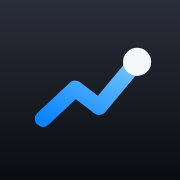
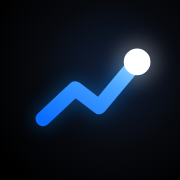
v70 und iPhone-App 0.6: neues App-Symbol (fast schwarzer Grund, blauer Schein)
Claude-Session: https://claude.ai/code/session_01AzcBeeds4X9D1bSHJ7i8yF

diff --git a/tests/symbol.js b/tests/symbol.js
@@ -1,26 +1,31 @@
-// App-Symbol erzeugen: ein Zeichen auf leichtem Verlauf. Die steigende Linie steht für Fortschritt, der Punkt für „Track.“.
-// Aufruf: node tests/symbol.js [ordner]   (ohne Ordner werden icon-180/192/512.png im Projekt überschrieben)
+// App-Symbol erzeugen: die steigende Linie (Fortschritt) mit hellem Punkt („Track.“) auf fast schwarzem Grund, dahinter ein blauer Schein
+// (seit v70, vom Nutzer nach Vorschaubild gewählt: „schwarz mit schein“; vorher ein grauer Verlauf).
+// Aufruf: node tests/symbol.js [ordner]   (ohne Ordner werden icon-180/192/512.png im Projekt und das Symbol der iPhone-App überschrieben)
 // Das Zeichen bleibt in der Mitte (80 % der Fläche), weil iPhone und Android die Ecken abschneiden.
 const { chromium } = require('playwright');
 const path = require('path');
 
 const SVG = `<svg xmlns="http://www.w3.org/2000/svg" viewBox="0 0 512 512">
   <defs>
-    <linearGradient id="g" x1="0" y1="0" x2="0" y2="1"><stop offset="0" stop-color="#2A2E3B"/><stop offset="1" stop-color="#0B0C10"/></linearGradient>
-    <linearGradient id="l" x1="0" y1="1" x2="1" y2="0"><stop offset="0" stop-color="#0A84FF"/><stop offset="1" stop-color="#6CC0FF"/></linearGradient>
+    <radialGradient id="g" cx="0.62" cy="0.42" r="0.75"><stop offset="0" stop-color="#11203A"/><stop offset="0.55" stop-color="#07090E"/><stop offset="1" stop-color="#000000"/></radialGradient>
+    <linearGradient id="l" x1="0" y1="1" x2="1" y2="0"><stop offset="0" stop-color="#0A6CFF"/><stop offset="1" stop-color="#5CB8FF"/></linearGradient>
+    <filter id="f" x="-50%" y="-50%" width="200%" height="200%"><feGaussianBlur stdDeviation="26"/></filter>
   </defs>
   <rect width="512" height="512" fill="url(#g)"/>
-  <path d="M122 338 L214 252 L282 304 L372 196" fill="none" stroke="url(#l)" stroke-width="46" stroke-linecap="round" stroke-linejoin="round"/>
-  <circle cx="390" cy="176" r="40" fill="#F5F6F8"/>
+  <path d="M122 338 L214 252 L282 304 L372 196" fill="none" stroke="#0A84FF" stroke-width="46" stroke-linecap="round" stroke-linejoin="round" opacity="0.45" filter="url(#f)"/>
+  <path d="M122 338 L214 252 L282 304 L372 196" fill="none" stroke="url(#l)" stroke-width="42" stroke-linecap="round" stroke-linejoin="round"/>
+  <circle cx="390" cy="176" r="60" fill="#FFFFFF" opacity="0.28" filter="url(#f)"/>
+  <circle cx="390" cy="176" r="38" fill="#FFFFFF"/>
 </svg>`;
 
 (async () => {
   const ziel = process.argv[2] || path.resolve(__dirname, '..');
   const browser = await chromium.launch();
-  for (const n of [180, 192, 512]) {
+  // 1024 ist das Symbol der iPhone-App (ohne runde Ecken, die schneidet iOS selbst)
+  for (const n of [180, 192, 512, 1024]) {
     const page = await browser.newPage({ viewport: { width: n, height: n } });
     await page.setContent('<style>html,body{margin:0}svg{display:block;width:100vw;height:100vh}</style>' + SVG);
-    await page.screenshot({ path: path.join(ziel, 'icon-' + n + '.png') });
+    await page.screenshot({ path: n === 1024 ? (process.argv[2] ? path.join(ziel, 'icon-1024.png') : path.resolve(__dirname, '../ios/App/Assets.xcassets/AppIcon.appiconset/icon-1024.png')) : path.join(ziel, 'icon-' + n + '.png') });
     await page.close();
   }
   await browser.close();

diff --git a/index.html b/index.html
@@ -776,7 +776,7 @@ dialog::before{content:"";display:block;flex:none;width:36px;height:5px;border-r
 
   <div id="v-training" class="view" hidden></div>
 
-  <footer class="foot" id="foot">Gespeichert auf diesem Gerät.<span class="ver">v69</span><span class="ver" id="h-line" hidden></span></footer>
+  <footer class="foot" id="foot">Gespeichert auf diesem Gerät.<span class="ver">v70</span><span class="ver" id="h-line" hidden></span></footer>
 </div>
 </div>
 

diff --git a/sw.js b/sw.js
@@ -1,4 +1,4 @@
-const C = 'takt-v69';
+const C = 'takt-v70';
 self.addEventListener('install', e => {
   e.waitUntil(caches.open(C).then(c => c.addAll(['./', 'index.html', 'manifest.webmanifest', 'icon-180.png', 'icon-192.png', 'icon-512.png'])).then(() => self.skipWaiting()));
 });

diff --git a/PROGRESS.md b/PROGRESS.md
@@ -1,8 +1,8 @@
 # Track. – Fortschritt
 
 ## Aktueller Stand
-- App-Inhalt (`index.html`): live ist v69 unter https://tnyjmp8sz8-jpg.github.io/Meine-App/ (Zweig `main`, veröffentlicht am 18.11.2026; `node tests/live.js` geht in dieser Umgebung nicht, geprüft wird der Pages-Lauf bei GitHub). `node tests/alle.js` (18.11.): alle 716 Prüfungen in 14 Reihen stimmen (Ablauf 16, Aufbau 68, Klappzeilen 154, Gesten 21, Eingaben 17, Löschen 22, Aufgaben und Notizen 80, Finanzen 68, Gym 35, Monat 30, Hülle 163, Apple Watch 24, Speichern 8, Aktualisierung 10). v66 bis v69 kommen auch mit Installation 0.4 von selbst an. Er testet die App seit 18.11. ausgiebig und meldet sich; Rückmeldung am iPhone steht aus.
-- iPhone-App: Bei ihm läuft 0.4 („gültig bis 24. November“). Fassung 0.5 (Schnelleingabe mit Ausgabe/Einnahme und Konto, Sicherung von selbst, Läufe von der Apple Watch über Kurzbefehle) ist bei GitHub gebaut und im Simulator bestanden (Lauf 19, Stand `8b026b5`: `starts` 3, `sicherungen` 1, `lauf` „1|850|300|145“, `uhrRechnung` stimmt; Bilder der Schnelleingabe angesehen). Der endgültige Bau mit dem Feld „Konto“ in „Ausgabe eintragen“ (Lauf 20, Stand `550a026`, `macos-15-intel`; der zweite Mac kam nicht dran und wurde abgebrochen, deshalb zeigt der Lauf „failure“) hat alles bestanden und liegt im Release „iphone-test“ (659.250 Byte, 18.11. 10:28 UTC). Dem Nutzer am 18.11. genannt. Am iPhone ist von 0.5 noch nichts geprüft.
+- App-Inhalt (`index.html`): v70 (nur neues Symbol und Versionsnummer gegenüber v69) ist am 18.11.2026 nach `main` hochgeladen; ob GitHub Pages sie ausgeliefert hat, nach dem Zusammenfassen über den Lauf „pages build and deployment“ zum neuesten Commit auf `main` prüfen (`node tests/live.js` geht in dieser Umgebung nicht). `node tests/alle.js` (18.11., v70): alle 716 Prüfungen in 14 Reihen stimmen (Ablauf 16, Aufbau 68, Klappzeilen 154, Gesten 21, Eingaben 17, Löschen 22, Aufgaben und Notizen 80, Finanzen 68, Gym 35, Monat 30, Hülle 163, Apple Watch 24, Speichern 8, Aktualisierung 10). v66 bis v70 kommen auch mit Installation 0.4 von selbst an. Er testet die App seit 18.11. ausgiebig und meldet sich; Rückmeldung am iPhone steht aus.
+- iPhone-App: Bei ihm läuft 0.4 („gültig bis 24. November“), soweit bekannt. Fassung 0.5 (Schnelleingabe mit Ausgabe/Einnahme und Konto, Sicherung von selbst, Läufe von der Apple Watch über Kurzbefehle, „Ausgabe eintragen“ mit Konto) hat bei GitHub alles bestanden (Lauf 20, `macos-15-intel`). Fassung 0.6 ist dasselbe mit dem neuen Symbol (`project.yml` 0.6/6): Der Bau bei GitHub ist mit dem Hochladen am 18.11. gestartet (Änderung unter `ios/`). NACH DEM ZUSAMMENFASSEN ZUERST: den neuesten Lauf von `ios.yml` ansehen (Jobs einzeln: Es reicht, wenn ein Mac durchläuft), `stand.txt` und `pruefung-3.json` auf dem Zweig `ios-bild` prüfen, Release „iphone-test“ mit `get_release_by_tag` prüfen (Commit, Größe), dann dem Nutzer sagen, dass 0.6 zum Installieren bereitliegt (Link und Schritte stehen in `CLAUDE.md` unter „Download der IPA“). Schlägt der Bau fehl: Protokoll mit `get_job_logs` lesen, beheben, hochladen. Am iPhone ist von 0.5/0.6 noch nichts geprüft.
 - Auf seinen Wunsch („füge direkt puls und strecke hinzu“, 18.11.) hat er die Anleitung für alle Stufen auf einmal bekommen (auch „Läufe übernehmen“ mit Strecke und Puls). Hakt etwas, zuerst die Zeile „Apple Watch“ als Bildschirmfoto erbitten.
 - Nächste Schritte mit ihm (je mit Bildschirmfoto): 0.5 installieren; Zeile „Sicherung“ und einmal „Ordner in iCloud wählen“; Schnelleingabe „Ausgabe“ mit seinen Konten; Konto in „Trade Republic“ umbenennen; Automation für Apple Pay; Kurzbefehl „Lauf merken“ (Stufe 1), danach „Läufe übernehmen“ (Stufe 2) und Puls (Stufe 3).
 - Sparsam arbeiten: „bitte kein ultra code mehr nutzen“ (18.11.). Der Nutzer will sein Claude-Abo widerrufen („das Limit reicht nicht“, 17.11.).
@@ -11,7 +11,7 @@
 - Umgebung der Sitzung: nur „Default“ (ohne erlaubte Adressen, ohne Schlüssel). `curl` an Codemagic und `node tests/live.js` gehen nicht; Ersatz für die Live-Prüfung: der Lauf „pages build and deployment“ bei GitHub. Der Bau bei GitHub geht ohne Schlüssel.
 - Wortwahl gegenüber dem Nutzer: „App“ für den Inhalt, „neue Installation“ für eine neue IPA (nicht „Web-App“ oder „Hülle“).
 
-## Laufender Auftrag (18.11.2026, morgens): Schnelleingabe mit Konten, Sicherung von selbst
+## Auftrag vom 18.11.2026 (gebaut in v65 und Fassung 0.5): Schnelleingabe mit Konten, Sicherung von selbst, Health
 Wortlaut (mit Bildschirmfoto der Schnelleingabe „Ausgabe“ am Gerät, also läuft Fassung 0.4 bei ihm): „füge deinen vorschlag mit ein / dazu: wenn ich auf dem widget auf ausgabe klicke kommt das, ich will wählen können zwischen ausgabe und einnahme (standard is ausgabe) und meine hinzugefügten konten auswählen können damit es direkt richtig mit meinem vermögen verrechnet wird / findest du die app übersichtlich genug?“
 - „Vorschlag“ = die iPhone-App legt von selbst eine Sicherung in „Dateien“ ab, die Erinnerung entfällt.
 - Plan: App-Inhalt v65 (Konten im Stand für die Schnelleingabe; Einnahme und Konto aus der Schnelleingabe übernehmen; Sicherung von selbst an den iPhone-Teil schicken, Zeile „Sicherung“ zeigt den Stand) und iPhone-App 0.5 (Schnelleingabe mit Pillen Ausgabe/Einnahme und Konten; Sicherung je Tag in den Ordner der App, sichtbar in „Dateien“, die letzten 14; wahlweise zusätzlich ein Ordner in iCloud Drive; dazu die offenen Punkte für 0.5). Der Vertrag zwischen beiden Seiten steht im Skript des Arbeitsablaufs der Sitzung und kommt nach dem Bau in `CLAUDE.md`.
@@ -42,10 +42,8 @@ Wortlaut: „zahle immer mit apple pay das wäre dann über Trade Republic / nen
 3. Routine von selbst abhaken, wenn ein Lauf ankommt oder eine Gym-Einheit beendet wird (Routine mit passendem Namen).
 4. Zwei Rechenkanten beheben (stehen unter „Offene Probleme“): Ein neues Konto zählt mit seinem ersten Stand als Plus des Monats; geänderte Tage einer Routine brechen die Serie rückwirkend.
 5. Seine Entscheidung, kein Bau: Entwickler-Konto von Apple (99 US-Dollar im Jahr) für echtes Health und kein Erneuern alle 7 Tage.
+6. Routinen mit eigenem Takt („jeden zweiten Tag“), wie seit v69 bei den Aufgaben: ihm vorgeschlagen, Antwort steht aus.
 Bewusst nicht: weitere Felder, weitere Graphen, Bankanbindung, tägliche Abfragen.
-
-## Offen (18.11.): neues App-Symbol
-Seine Frage: „geht noch geilers logo vll? dunklerer hintergrund?“ Er hat ein Vorschaubild mit dem jetzigen Symbol und drei Vorschlägen bekommen: A Schwarz mit blauem Schein (Linie wie jetzt), B weißes „T“ mit blauem Punkt (wie der Schriftzug „Track.“), C weiße Linie mit blauem Punkt. Meine Empfehlung: B. Nichts gebaut, wartet auf seine Wahl. Umsetzen: SVG in `tests/symbol.js` ersetzen, `icon-180/192/512.png` neu erzeugen, dazu `ios/App/Assets.xcassets/AppIcon.appiconset/icon-1024.png`; auf dem Home-Bildschirm ändert sich das Symbol erst mit einer neuen Installation.
 
 ## Letzter Auftrag (17./18.11.2026): Oberfläche aufräumen, erledigt in v64
 Wortlaut: „meine app muss cleaner aussehen; da ist noch zu viel zu unübersichtlich aber ich mag alle funktionen überleg dir was wie alles enthalten bleibt aber auf den ersten blick übersichtlich bleibt und baue es bis es fertig ist. überprüfe dich selbst ob es passt und passe gegebenenfalls an“.
@@ -82,6 +80,7 @@ Gebaut in v60 und Fassung 0.2 (Einzelheiten in `CLAUDE.md`):
 - v67: In der Zeile „Letzter Lauf“ steht rechts der Vergleich der Effizienz statt der Pace (ohne Puls die Pace), die Art nur noch beim Filter „Alle“. Von selbst gebuchte Ausgaben bekommen die Kategorie, unter der derselbe Händler zuletzt einsortiert wurde.
 - v68: Aufgaben wiederholen sich auch „alle 2 Tage“ und „alle 2 Wochen“, gezählt ab dem gewählten Starttag (Feld „Fällig“).
 - v69: Statt der zwei festen Knöpfe ein eigener Takt „Alle … Tage/Wochen“ mit Zahl (sein „ja“ auf meinen Vorschlag). Aufgaben aus v68 mit „alle 2 Tage/Wochen“ bleiben gültig.
+- v70 mit iPhone-App 0.6: neues App-Symbol (fast schwarzer Grund, blauer Schein hinter der Linie), von ihm nach Vorschaubild gewählt.
 - Nach v66 auf sein „ja alles anpassen wie du denkst“ (18.11.) die übrigen Bereiche durchgesehen (Bild vom Gym, alle losen Sätze und „i“ im Code): nichts weiter geändert. Gym ist schon ruhig (Zahl, drei Kacheln, Pläne, zwei Klappzeilen); das „i“ an „Verbesserung“ bleibt, weil die Zahl sich nicht selbst erklärt. Lose Sätze gibt es außer Platzhaltern keine mehr.
 
 ## Offene Probleme

diff --git a/CLAUDE.md b/CLAUDE.md
@@ -1,4 +1,4 @@
-# Track. – Projektwissen (App-Stand v69)
+# Track. – Projektwissen (App-Stand v70)
 
 ## Regeln für dieses Dokument (immer befolgen)
 Halte diese Datei und `PROGRESS.md` selbstständig aktuell, ohne dass der Nutzer darum bittet:
@@ -31,7 +31,7 @@ Halte diese Datei und `PROGRESS.md` selbstständig aktuell, ohne dass der Nutzer
 ## Architektur & wichtige Dateien
 - `index.html`: die ganze App. CSS im `<style>`, alle Blätter als `<dialog>`, JavaScript als eine IIFE im `<script>`.
 - `sw.js`: cache-first mit Aktualisierung im Hintergrund; der Cache-Name `takt-vN` trägt die Versionsnummer.
-- `manifest.webmanifest`, `icon-180/192/512.png`: Installation auf dem Home-Bildschirm. `.nojekyll` für Pages. Das Symbol (steigende blaue Linie mit hellem Punkt auf dunklem Verlauf, seit v47) erzeugt `node tests/symbol.js` aus einem SVG im Skript.
+- `manifest.webmanifest`, `icon-180/192/512.png`: Installation auf dem Home-Bildschirm. `.nojekyll` für Pages. Das Symbol (steigende blaue Linie mit hellem Punkt auf fast schwarzem Grund mit blauem Schein; seit v70, vom Nutzer nach Vorschaubild aus drei Vorschlägen gewählt: „schwarz mit schein“; die Linie gibt es seit v47) erzeugt `node tests/symbol.js` aus einem SVG im Skript, dazu `ios/App/Assets.xcassets/AppIcon.appiconset/icon-1024.png` für die iPhone-App. Auf dem Home-Bildschirm ändert es sich erst mit einer neuen Installation.
 - `start/`: einfarbige Startbilder fürs iPhone (hell und dunkel, je Gerätegröße), erzeugt mit `tests/startbilder.py`; die Zeilen dazu stehen im `<head>`. Bewusst ohne Schriftzug, damit das Startbild nahtlos in die App übergeht. Neue iPhone-Größe: im Skript ergänzen und neu erzeugen.
 - `CLAUDE.md` (dieses Wissen), `PROGRESS.md` (Stand, Offenes, nächste Schritte).
 - `tests/`: Tests und Bildschirmfotos (siehe „Testen“ und `tests/LIESMICH.md`). Gehören nicht zur App; der Service Worker speichert sie nicht.
@@ -75,7 +75,7 @@ Halte diese Datei und `PROGRESS.md` selbstständig aktuell, ohne dass der Nutzer
 
 ## iPhone-App (seit 17.11.2026 auf dem iPhone des Nutzers installiert und in Benutzung)
 - Wortwahl gegenüber dem Nutzer: Er will „nur noch die richtige App“ und stolperte über „Web-App“ und „Hülle“ (17.11.). Ihm gegenüber „App“ für den Inhalt und „neue Installation“ für eine neue IPA sagen. Der Inhalt bleibt `index.html` und wird nicht in Swift neu geschrieben: So kommen Änderungen ohne neue Installation aufs iPhone, und alles Getestete bleibt.
-- Aufbau: Ordner `ios/`, Projektbeschreibung `project.yml` für XcodeGen (zwei Ziele: App `de.trackapp.track`, Widget `de.trackapp.track.Widget`; AltStore hängt die Team-Kennung an). Die Kennungen dürfen sich nicht ändern: Nur so ersetzt eine neue IPA die alte und die Daten bleiben. Das Xcode-Projekt und `ios/web/` entstehen erst beim Bauen. Auf dem iPhone des Nutzers läuft Fassung 0.4 (Bildschirmfoto vom 18.11.: Schnelleingabe aus dem Widget geht); Fassung 0.5 liegt seit 18.11. im Release „iphone-test“ (Bau bestanden), ob er sie installiert hat, ist offen. Zu 0.3 (sein Bildschirmfoto: Daten sind beim Drüberinstallieren geblieben, der Knopf „Notiz“ im Widget öffnet die App im Blatt, und die Tastatur geht dabei von selbst auf). Ab 0.3 braucht die App iOS 17 (wegen der Knöpfe im Widget); Sprache des Projekts ist Deutsch (`developmentLanguage`).
+- Aufbau: Ordner `ios/`, Projektbeschreibung `project.yml` für XcodeGen (zwei Ziele: App `de.trackapp.track`, Widget `de.trackapp.track.Widget`; AltStore hängt die Team-Kennung an). Die Kennungen dürfen sich nicht ändern: Nur so ersetzt eine neue IPA die alte und die Daten bleiben. Das Xcode-Projekt und `ios/web/` entstehen erst beim Bauen. Auf dem iPhone des Nutzers läuft Fassung 0.4 (Bildschirmfoto vom 18.11.: Schnelleingabe aus dem Widget geht); Fassung 0.5 lag seit 18.11. im Release „iphone-test“ (Bau bestanden), ob er sie installiert hat, ist offen; Fassung 0.6 ist 0.5 mit dem neuen Symbol (Stand des Baus und des Release: siehe `PROGRESS.md`). Zu 0.3 (sein Bildschirmfoto: Daten sind beim Drüberinstallieren geblieben, der Knopf „Notiz“ im Widget öffnet die App im Blatt, und die Tastatur geht dabei von selbst auf). Ab 0.3 braucht die App iOS 17 (wegen der Knöpfe im Widget); Sprache des Projekts ist Deutsch (`developmentLanguage`).
   - `App/TrackApp.swift`: Fenster mit der Web-App, Selbst-Update, Verbindung zur Web-App (`Halter` ist auch `WKScriptMessageHandler` „track“), eigene Adresse `trackpunkt://` (`neu/ausgabe|notiz|gewicht` öffnet das Blatt; `lauf?km=…&min=…&puls=…&t=…&laufband=1` trägt einen Lauf ein), Selbsttest. Seit 0.5: Eine nachgeladene Fassung, die wegen eines offenen Blatts wartet, kommt beim nächsten Zurückkommen (`Halter.wartet`).
   - `App/Sicherung.swift` (0.5): nimmt die Sicherung der App an (prüft Name, JSON mit `app` „takt“, Größe), schreibt atomar nach „Dokumente“ (`UIFileSharingEnabled` und `LSSupportsOpeningDocumentsInPlace` in `Info/App.plist` machen den Ordner in „Dateien“ sichtbar), räumt nur eigene Dateien auf, kopiert getrennt in den gewählten Ordner (Lesezeichen `sicherungOrdner`, `NSFileCoordinator`) und meldet über `TrackHuelle.gesichert()`. Beim Verlassen der App ruft `Halter.verlassen()` `TrackHuelle.sichern()`.
   - `App/Uhr.swift` (0.5): Läufe von der Apple Watch ohne HealthKit. `Laufbuch` (reine Rechnung `melden`, `waehlen`, `werte`; Ablage `Application Support/laufbuch.json`) und drei Aktionen für Kurzbefehle: `LaufMerken` „Lauf merken“ (Feld `ereignis`), `LaufZeitraum` „Lauf-Zeitraum“ (gibt `LaufZeit` mit `beginn`, `ende` zurück, immer einen Zeitraum), `LaufEintragen` „Lauf eintragen“ (`strecke`, `puls` als Listen, `art`, `beginn`, `ende`; kein Feld ist Pflicht). Diese Namen und Feldnamen dürfen sich nicht mehr ändern, sobald der Nutzer seine Kurzbefehle gebaut hat. Der iPhone-Teil paart Beginn und Ende, wählt den Lauf, der als Nächstes gelesen wird, und merkt ihn über den Eingang vor (`art: 'lauf'`, Kennung `k` + Minute des Beginns); gerechnet wird im App-Inhalt (ohne neue Installation nachbesserbar).
@@ -226,7 +226,7 @@ Halte diese Datei und `PROGRESS.md` selbstständig aktuell, ohne dass der Nutzer
 - Bei Ansichten, die neu aussehen, ein Bild mit Beispieldaten mitschicken.
 
 ## Veröffentlichen
-- Bei jeder Änderung an `index.html`: Cache-Name in `sw.js` (`takt-v69` → `takt-v70`), `<span class="ver">v69</span>` in der Fußzeile und die Nummer in dieser Datei gemeinsam hochzählen. Die Stelle in der Fußzeile muss Zeichen für Zeichen so bleiben (keine weitere Klasse, kein Leerzeichen): Die iPhone-App erkennt daran eine neuere Fassung (`Web.version()`). Ohne neuen Cache-Namen sehen installierte Geräte die Änderung nicht. Reine Änderungen an den beiden Markdown-Dateien brauchen keine neue Version.
+- Bei jeder Änderung an `index.html`: Cache-Name in `sw.js` (`takt-v70` → `takt-v71`), `<span class="ver">v70</span>` in der Fußzeile und die Nummer in dieser Datei gemeinsam hochzählen. Die Stelle in der Fußzeile muss Zeichen für Zeichen so bleiben (keine weitere Klasse, kein Leerzeichen): Die iPhone-App erkennt daran eine neuere Fassung (`Web.version()`). Ohne neuen Cache-Namen sehen installierte Geräte die Änderung nicht. Reine Änderungen an den beiden Markdown-Dateien brauchen keine neue Version.
 - Entwickelt wird auf dem Arbeitszweig der Sitzung. Was nach `main` geht, landet auf dem Handy des Nutzers. Ob direkt nach `main` veröffentlicht werden darf, in jeder neuen Sitzung einmal beim Nutzer erfragen.
 - Nach dem Hochladen warten, bis Pages die neue Version ausliefert (das `sw.js` der Adresse zeigt den neuen Cache-Namen), dann dem Nutzer die Version nennen.
 
